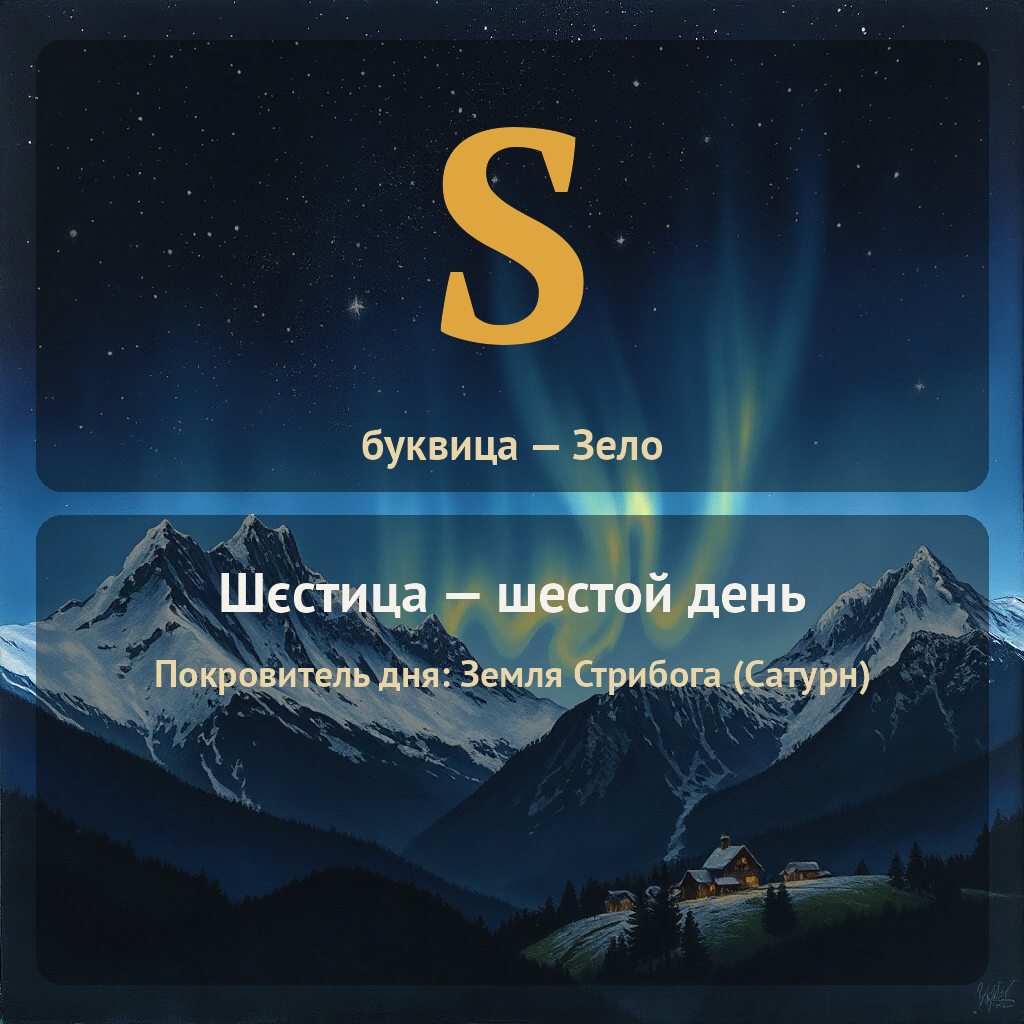
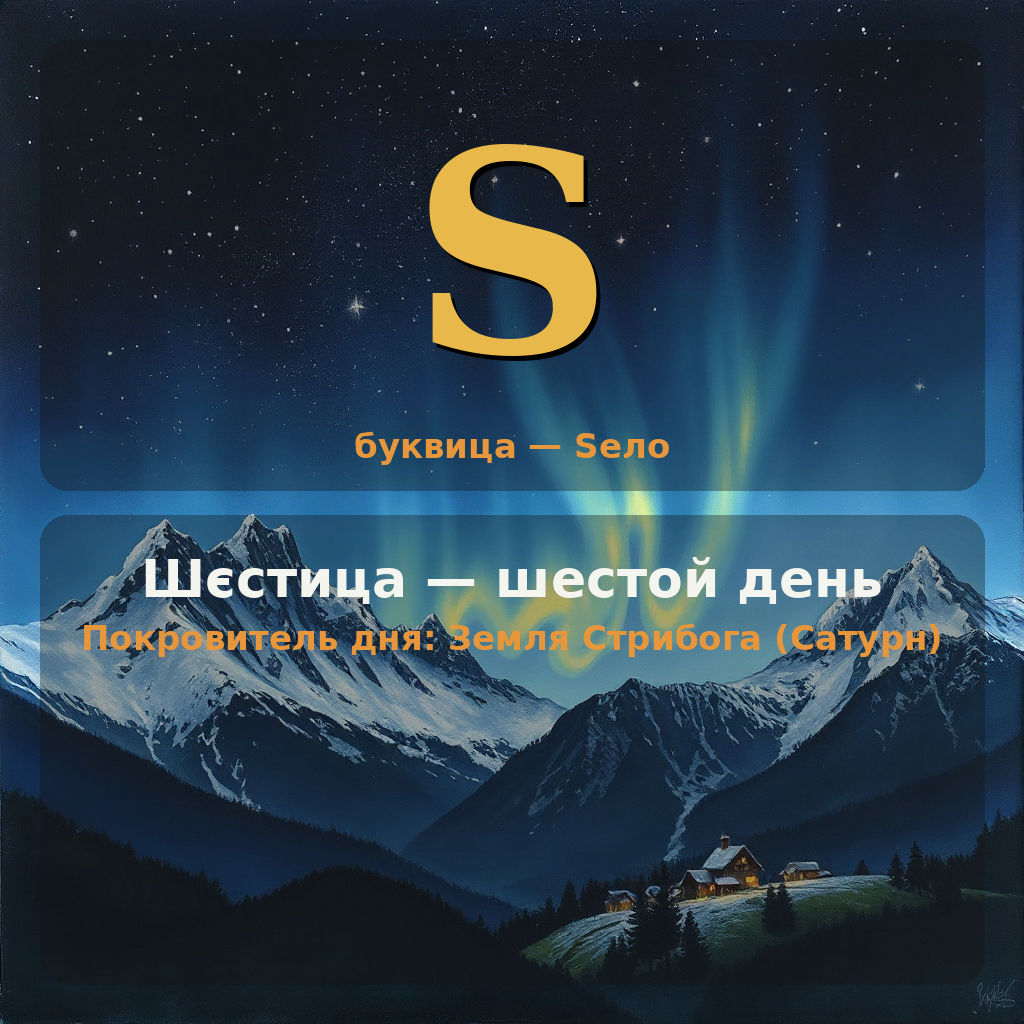
fix: Пꙗтнiца — фон без подписи художника, буквица Єсть ( глиф Є )

diff --git a/СКРИПТ для КАРТИНКИ.py b/СКРИПТ для КАРТИНКИ.py
@@ -32,7 +32,7 @@ ORDINALS = ['первый', 'второй', 'третий', 'четвёртый'
             'шестой', 'седьмой', 'восьмой', 'девятый']
 
 GLYPHS = {'Азъ': 'А', 'Вѣди': 'В', 'Глаголи': 'Г', 'Добро': 'Д',
-          'Есть': 'Е', 'Зело': 'Ѕ', 'Земля': 'Ȥ', 'Ȥемля': 'Ȥ',
+          'Єсть': 'Є', 'Зело': 'Ѕ', 'Земля': 'Ȥ', 'Ȥемля': 'Ȥ',
           'Иже': 'И', 'Ижеи': 'И', 'Како': 'К', 'Люди': 'Л',
           'Мыслете': 'М', 'Фита': 'Ѳ', 'Ѳита': 'Ѳ'}
 
